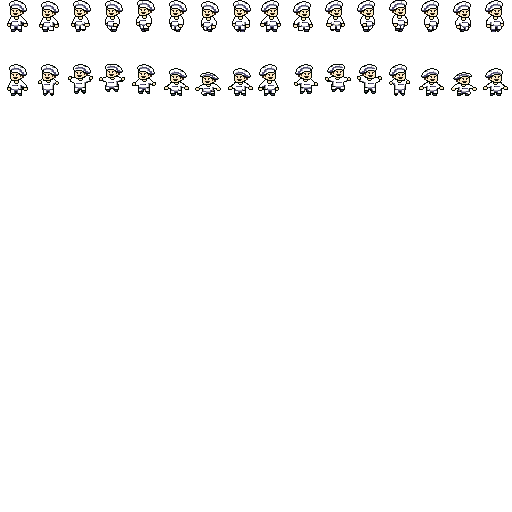
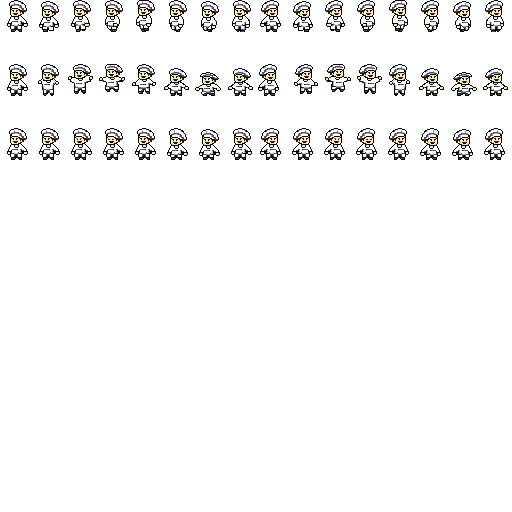
feat: add chef idle

Changed region(s): [[0.0, 0.25, 1.0, 0.3125]]

diff --git a/game/src/Player.cpp b/game/src/Player.cpp
@@ -49,12 +49,17 @@ void Player::init(const glm::ivec2& tileMapPos, ShaderProgram& shaderProgram)
 	landTimer = 0; // Inicializamos el temporizador a 0
 	sprite->setNumberAnimations(10); // Ahora son 10 animaciones
 
-	// 1. REPOSO (Reaprovechamos el primer sprite de caminar de cada lado)
+	// 1. REPOSO IZQUIERDA (Fila 5: Y = 4 * step. Primeros 8 sprites)
 	sprite->setAnimationSpeed(STAND_LEFT, 8);
-	sprite->addKeyframe(STAND_LEFT, glm::vec2(0.f, 0.f));
+	for (int i = 0; i < 8; i++) {
+		sprite->addKeyframe(STAND_LEFT, glm::vec2(float(i) * step, 4.f * step));
+	}
 
+	// 1. REPOSO DERECHA (Fila 5: Y = 4 * step. Siguientes 8 sprites)
 	sprite->setAnimationSpeed(STAND_RIGHT, 8);
-	sprite->addKeyframe(STAND_RIGHT, glm::vec2(8.f * step, 0.f));
+	for (int i = 8; i < 16; i++) {
+		sprite->addKeyframe(STAND_RIGHT, glm::vec2(float(i) * step, 4.f * step));
+	}
 
 	// 2. ANDAR IZQUIERDA (Fila 1: Y = 0. Primeros 8 sprites)
 	sprite->setAnimationSpeed(MOVE_LEFT, 16);
